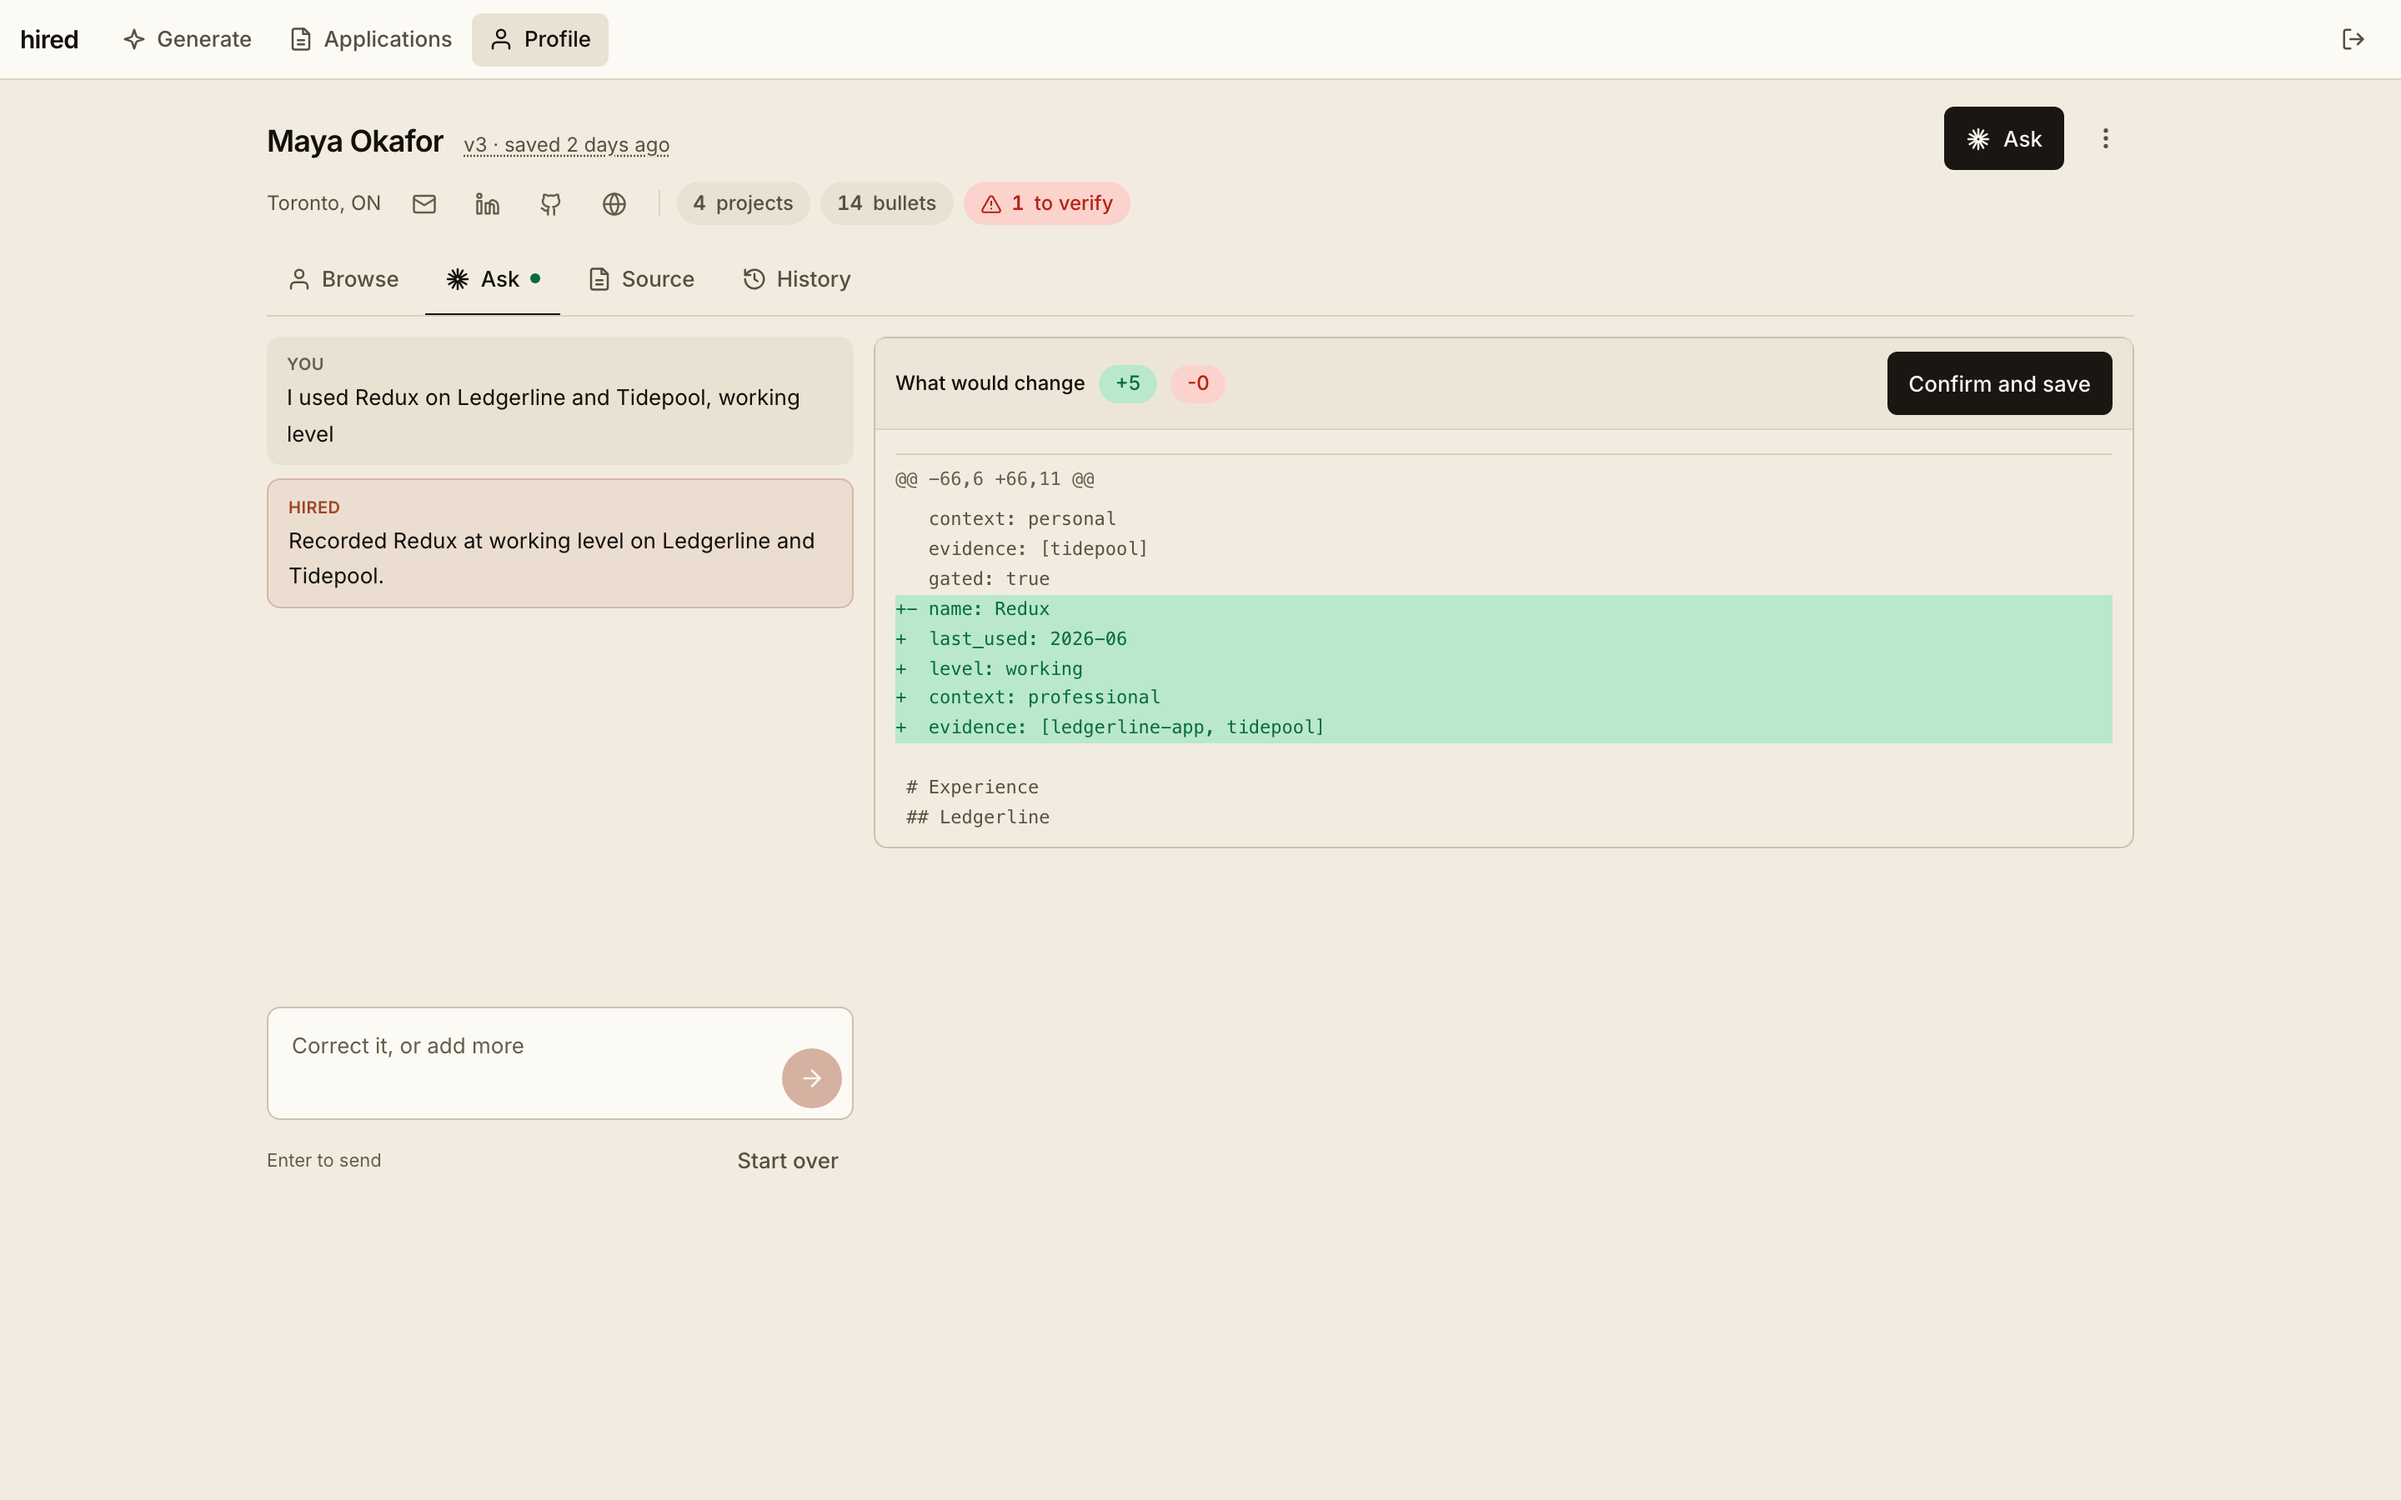
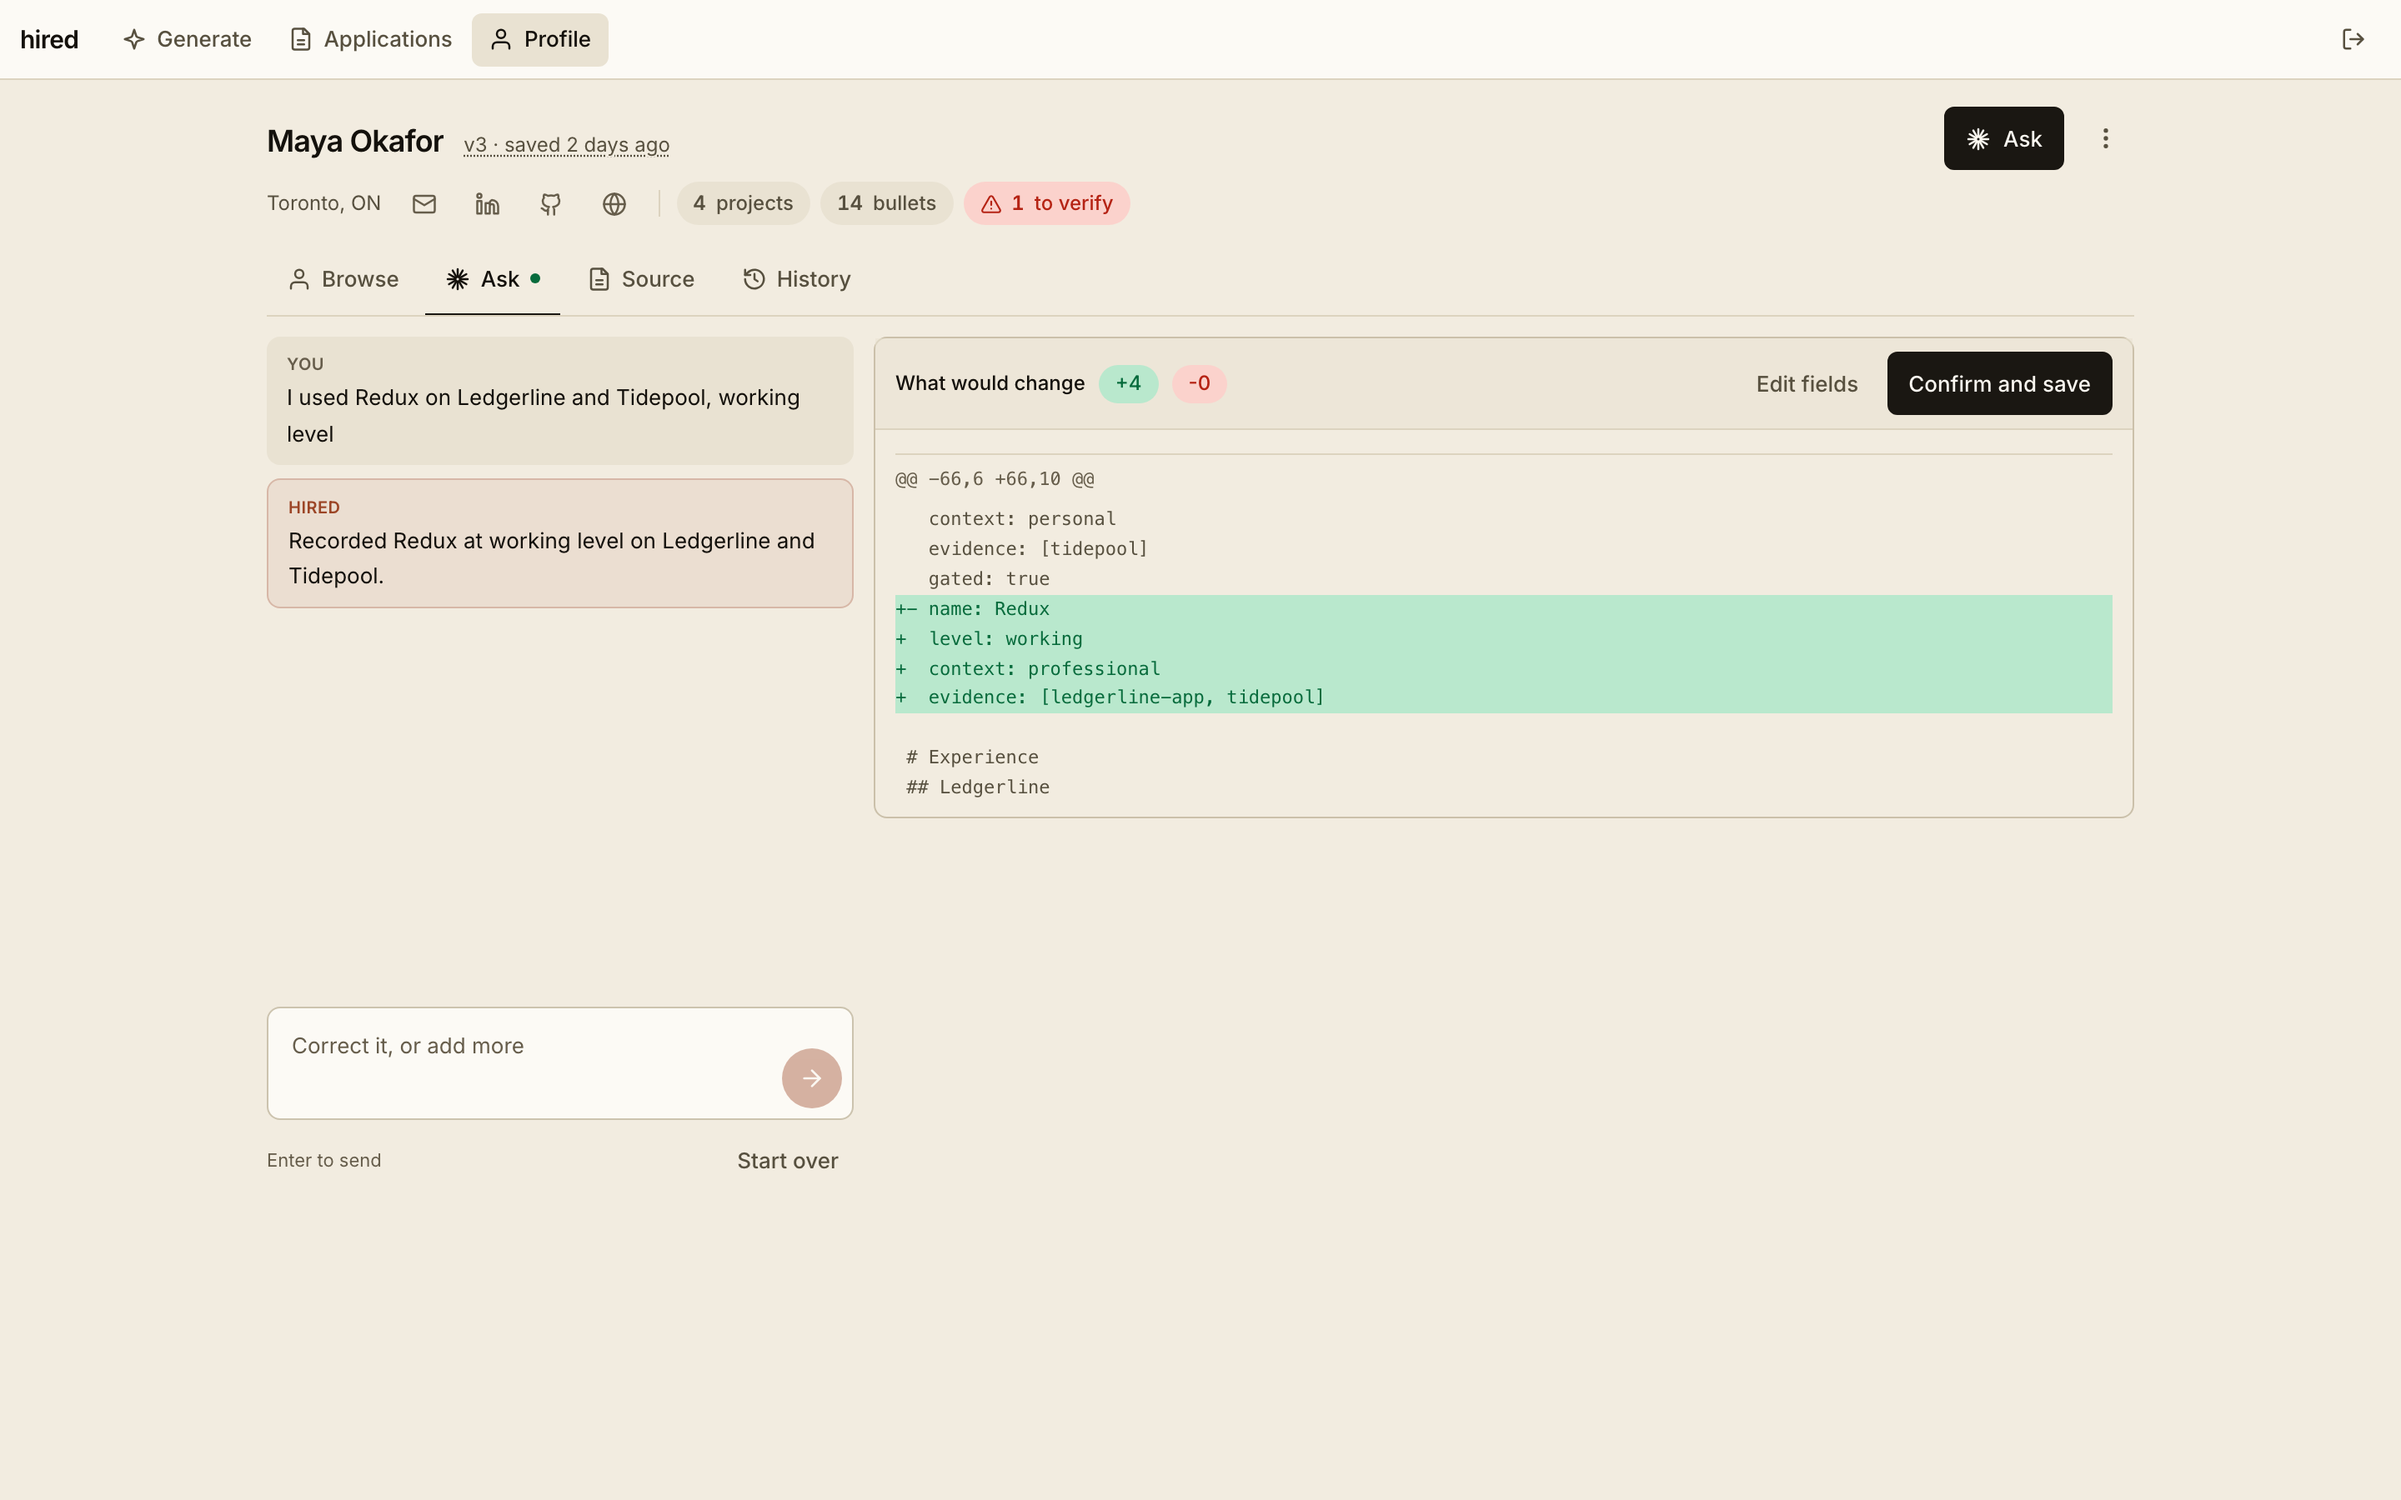
README and landing: the score is counted, models only point
The README still said the local model scores when Gemini is busy and never
chooses bullets. Both stopped being true: score, gaps, project ranking and
coverage are worked out in code from the profile, the local model reads the
posting and picks the title and bullets one project at a time, and Gemini
writes only the sentences under a score it is handed. The routing table now
has one row per step, checked against model.py, plus the model picker.

The landing page follows: "The score is counted, not guessed" replaces the
two-model section, the dark band shows one project's bullet_ids, and rule 01
no longer claims an unknown id blocks the export, since it is now dropped
and flagged. Palette synced to the frontend's brighter tokens.
Demo mode had stopped working with the split calls, so neither capture.py
nor `hired demo` could get past Check fit. demo.answer now handles reading,
reasoning, title and per-project bullets, using the prompt to tell projects
apart. The demo posting and profile were adjusted so the counted score
matches the canned explanation (9/10, React Native the one gap), and the
canned Ask edit no longer invents a last-used date. Screenshots recaptured
from the redesigned app.

Changed region(s): [[0.375, 0.4044, 0.875, 0.56], [0.75, 0.2489, 0.7812, 0.28]]

diff --git a/landing/src/styles/global.css b/landing/src/styles/global.css
@@ -1,9 +1,9 @@
 /* Copied from frontend/src/styles.css. */
 :root {
-  --bg: #f0eadc;
-  --surface: #e6dfcd;
-  --raised: #faf7f0;
-  --line: #dad1bd;
+  --bg: #f2ece0;
+  --surface: #e9e2d2;
+  --raised: #fcfaf5;
+  --line: #dcd3bf;
   --line-strong: #9c8c68;
   --fg: #14110c;
   --fg-muted: #57503f;
@@ -11,11 +11,11 @@
   --ink: #1a1712;
   --ink-fg: #faf7f0;
   --ink-muted: #b8ae98;
-  --accent: #2f6b4f;
-  --accent-soft: #dce7dd;
-  --warn: #7e5210;
-  --warn-soft: #f2e6ca;
-  --danger: #9b2c21;
+  --accent: #076b3c;
+  --accent-soft: #b9e8cd;
+  --warn: #8f5102;
+  --warn-soft: #fbe2b0;
+  --danger: #b52314;
 
   --display: 'Bricolage Grotesque', 'Inter', ui-sans-serif, system-ui, sans-serif;
   --sans: 'Inter', ui-sans-serif, system-ui, -apple-system, 'Segoe UI', sans-serif;

diff --git a/backend/app/demo.py b/backend/app/demo.py
@@ -51,8 +51,8 @@ FIT = {
         "required_skills": [
             {"name": "React", "importance": 3},
             {"name": "TypeScript", "importance": 3},
-            {"name": "Large data tables", "importance": 3},
-            {"name": "Data fetching and caching", "importance": 2},
+            {"name": "Large table virtualisation", "importance": 3},
+            {"name": "React Query or SWR", "importance": 2},
             {"name": "Design systems", "importance": 2},
             {"name": "Accessibility", "importance": 2},
         ],
@@ -92,17 +92,6 @@ SELECTION = {
         {"project_id": "ledgerline-reports", "bullet_ids": ["reports-graphql", "reports-export"]},
         {"project_id": "tidepool", "bullet_ids": ["tidepool-app", "tidepool-offline"]},
     ],
-    "coverage": [
-        {"skill": "React", "bullet_ids": ["ledgerline-rebuild", "northwind-ds"]},
-        {"skill": "TypeScript", "bullet_ids": ["ledgerline-rebuild"]},
-        {"skill": "Large data tables", "bullet_ids": ["ledgerline-virtual"]},
-        {"skill": "Data fetching and caching", "bullet_ids": ["ledgerline-cache"]},
-        {"skill": "Design systems", "bullet_ids": ["northwind-ds"]},
-        {"skill": "Accessibility", "bullet_ids": ["ledgerline-a11y"]},
-        {"skill": "GraphQL", "bullet_ids": ["reports-graphql"]},
-        {"skill": "Playwright", "bullet_ids": ["northwind-tests"]},
-        {"skill": "React Native", "bullet_ids": []},
-    ],
 }
 
 ASK = {
@@ -113,7 +102,6 @@ ASK = {
             "op": "add_skill_evidence",
             "target": "Redux",
             "level": "working",
-            "last_used": "2026-06",
             "context": "professional",
             "evidence": ["ledgerline-app", "tidepool"],
         }
@@ -140,14 +128,26 @@ HISTORY = [
 ]
 
 
-def answer(schema: dict) -> dict:
+def answer(schema: dict, prompt: str = "") -> dict:
     """
     Which canned reply this call wants, told apart by the schema it was given.
     Each caller owns its own schema, so no flag has to be threaded through.
     """
     properties = schema.get("properties", {})
+    if "required_skills" in properties:  # reading the posting
+        return FIT["parsed_jd"]
+    if set(properties) == {"reasoning"}:  # the sentences under a counted score
+        return {"reasoning": FIT["reasoning"]}
     if "title_id" in properties:
-        return SELECTION
+        return {"title_id": SELECTION["title_id"]}
+    if "bullet_ids" in properties:
+        # Asked one project at a time, and the prompt lists that project's ids.
+        return {
+            "bullet_ids": next(
+                (s["bullet_ids"] for s in SELECTION["sections"] if s["bullet_ids"][0] in prompt),
+                [],
+            )
+        }
     if "op" in properties:
         return {"op": ASK["changes"][0]["op"], "reply": ASK["reply"], "questions": []}
     if "changes" in properties:

diff --git a/landing/demo/capture.py b/landing/demo/capture.py
@@ -40,7 +40,7 @@ from app.main import app  # noqa: E402
 # One source for the demo data. This file used to carry its own copy, and the
 # two drifted the first time either was edited.
 JD = demo.JD
-fake = lambda _prompt, schema: demo.answer(schema)  # noqa: E731
+fake = lambda prompt, schema, *_, **__: demo.answer(schema, prompt)  # noqa: E731
 fit.generate_json = fake
 generate.generate_json = fake
 ask.generate_json = fake

diff --git a/backend/app/model.py b/backend/app/model.py
@@ -154,7 +154,7 @@ def generate_json(
         from . import demo
 
         served.set("demo")
-        return demo.answer(schema)
+        return demo.answer(schema, prompt)
 
     def gemini() -> dict[str, Any]:
         served.set(settings.gemini_model)

diff --git a/README.md b/README.md
@@ -6,16 +6,20 @@ posting it was made for.
 The app never invents a claim. Your experience lives in one master profile: a
 fixed pool of bullets, each project with an explicit list of what can and
 cannot be claimed. The model picks bullet ids, not prose, and the page is built
-from your own sentences after the call. A guard checks that numbers and
-qualifiers survive any rewording.
+from your own sentences after the call. The score, the gaps and which projects
+make the page are worked out in code from your profile, so one posting gives
+the same answer every time. A guard checks that numbers and qualifiers survive
+any rewording.
 
 ## What it does
 
-- **Fit check.** Scores a posting against your profile, lists which
-  requirements you cover and which you don't, and flags postings you have
-  already applied to.
+- **Fit check.** Reads the posting, matches every requirement against your
+  profile and counts the score from what is met, lists the gaps, and flags
+  postings you have already applied to. A model writes only the two or three
+  sentences explaining the score.
 - **Generate.** Picks the title, summary and bullets that fit the posting, lets
-  you swap any of them, previews the page and exports a PDF.
+  you swap any of them or regenerate, previews the page and exports a PDF. A
+  picker names the model that answers, for comparing two.
 - **Applications.** Every CV you send is saved with its posting. Track status,
   follow-ups, notes and a daily target, and re-download any PDF.
 - **Profile.** Edit the master profile as a form, as raw source, or by
@@ -29,7 +33,7 @@ qualifiers survive any rewording.
 | `backend/` | FastAPI, SQLModel on SQLite, Jinja + Playwright (Chromium) for the PDF |
 | `frontend/` | Angular 20, standalone components, signals, Tailwind 4 |
 | `landing/` | Astro, deployed separately on Vercel |
-| Models | Gemini for scoring and selection, granite3.3:8b on your own machine for reading the posting |
+| Models | granite3.3:8b on your own machine reads the posting and picks title and bullets; Gemini writes the reasons; score, gaps and project ranking are code |
 | Run | `bin/hired` launcher, locally or in Docker |
 
 The profile is Markdown headings around YAML, parsed with `yaml.safe_load`, no
@@ -57,9 +61,9 @@ Get a Gemini key from [Google AI Studio](https://aistudio.google.com).
 
 ### The local model
 
-Reading a posting is done by a model on your own machine, through
-[ollama](https://ollama.com). It is also what scores the fit when Gemini is rate
-limited, so there is no quota wall and no third party choosing the model.
+Reading a posting and picking bullets are done by a model on your own machine,
+through [ollama](https://ollama.com), so there is no quota wall and no third
+party choosing the model.
 
 ```bash
 ollama pull granite3.3:8b      # once, 4.9GB
@@ -72,8 +76,8 @@ use Gemini for everything.
 Every call sends an explicit context window, `HIRED_OLLAMA_CTX`, 12288 by
 default. Ollama otherwise uses 4096 whatever the model was trained for and drops
 the front of anything longer, which cost us a week of believing the model could
-not reason: scoring sends about 7.9k tokens and selection 9.3k, so both arrived
-with the profile cut off and the posting intact. Raising it costs memory —
+not reason: the old one-call prompts ran to 8-9k tokens and arrived with the
+profile cut off and the posting intact. Raising it costs memory —
 granite3.3:8b is 5.7GB at 4096, 7.1GB at 12288 and 7.8GB at 16384 — so keep it
 just above your longest prompt rather than at the model's maximum.
 
@@ -88,16 +92,25 @@ names: Gemini found 49% of them, granite3.3:8b found most of the rest, at about
 requirements produces a confident CV for the wrong job, so the forty seconds
 buys something.
 
-The local model is used three ways, by how much a wrong answer costs:
+Anything the profile can answer is not asked of a model at all:
 
-| Step | Local model | Why |
+| Step | Who | Why |
 | --- | --- | --- |
-| Reading the posting | first | it reads better, and the wait is worth it |
-| Scoring the fit | fallback | about a minute against four seconds, and plainer, but it names real gaps and invents nothing. A daily quota that runs out at noon is not an answer |
-| Choosing bullets | never | it picks only real ids, but across three runs of one posting it chose a different title each time, and a page assembled from a shuffle is worse than no page |
+| Reading the posting | local first, Gemini fallback | it finds most of the named requirements, and the wait is worth it |
+| Score and gaps | code | every requirement is matched against the profile, synonyms and "A or B" included, and the score is counted from what is met. Asked to judge, models reported React missing from a React developer |
+| The sentences under the score | Gemini first, local fallback | handed the met and unmet lists, it explains; it cannot move the number |
+| Which projects | code | ranked by what each adds to the ones already chosen |
+| Title, then bullets per project | local first, Gemini fallback | four small questions instead of one big one. As one call it picked one project of sixteen; asked separately it was right nine times of nine |
+| Coverage | code | read off the printed page |
 
-When a local model answers, its name is shown beside the CV and on the saved
-application, so a weaker answer is visible rather than silent.
+Local calls run at temperature 0, so one posting gives the same score, gaps,
+title and bullets every time. The model that read and the model that chose are
+stored on the saved application and shown beside the CV.
+
+To compare models, the picker on the Generate screen names one for the fit
+check, the CV and Regenerate alike. A named model is binding: it answers or the
+call fails, rather than a third model quietly answering. Only models ollama has
+pulled, or the configured Gemini, can be named.
 
 Before each local call `hired` checks the machine: it declines when the battery
 is under 30% and unplugged, when macOS reports thermal throttling, or when less

diff --git a/landing/demo/master.md b/landing/demo/master.md
@@ -33,7 +33,7 @@ authorization: Canadian citizen, no sponsorship required
 
 # Skills
 - line: Frontend
-  items: [React, TypeScript, Next.js, TanStack Query, Tailwind CSS, Storybook]
+  items: [React, TypeScript, Next.js, TanStack Query, Tailwind CSS, Storybook, Accessibility, Table virtualisation]
 - line: Backend
   items: [Node.js, PostgreSQL, GraphQL, REST]
 - line: Tooling
